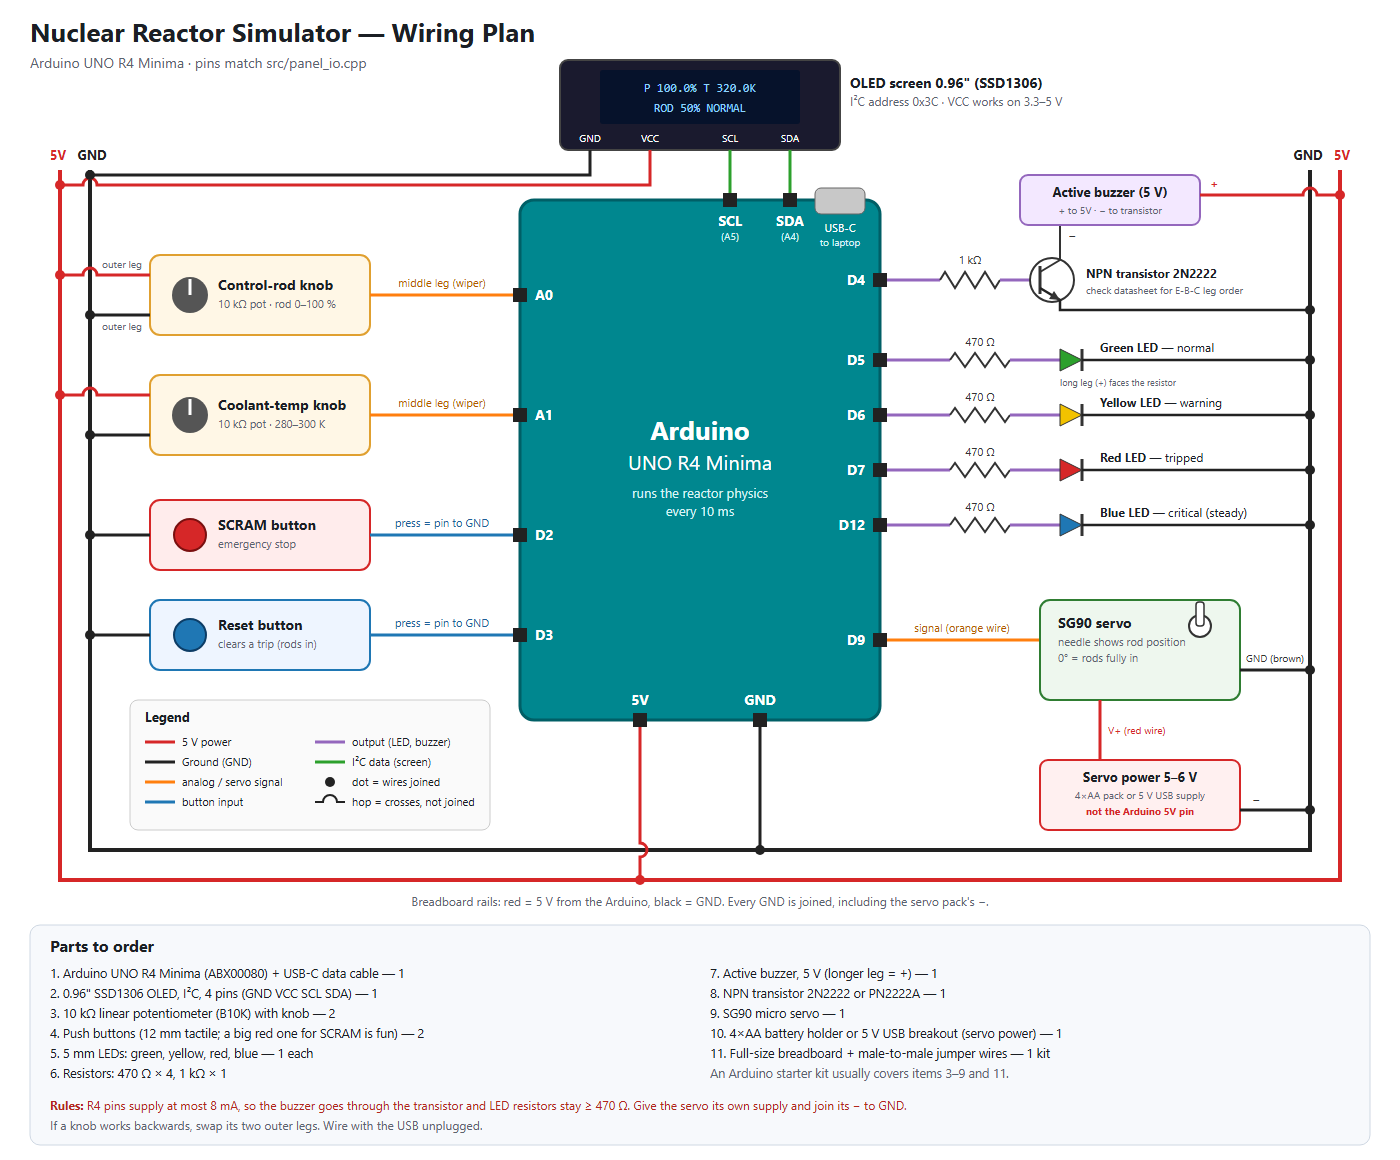
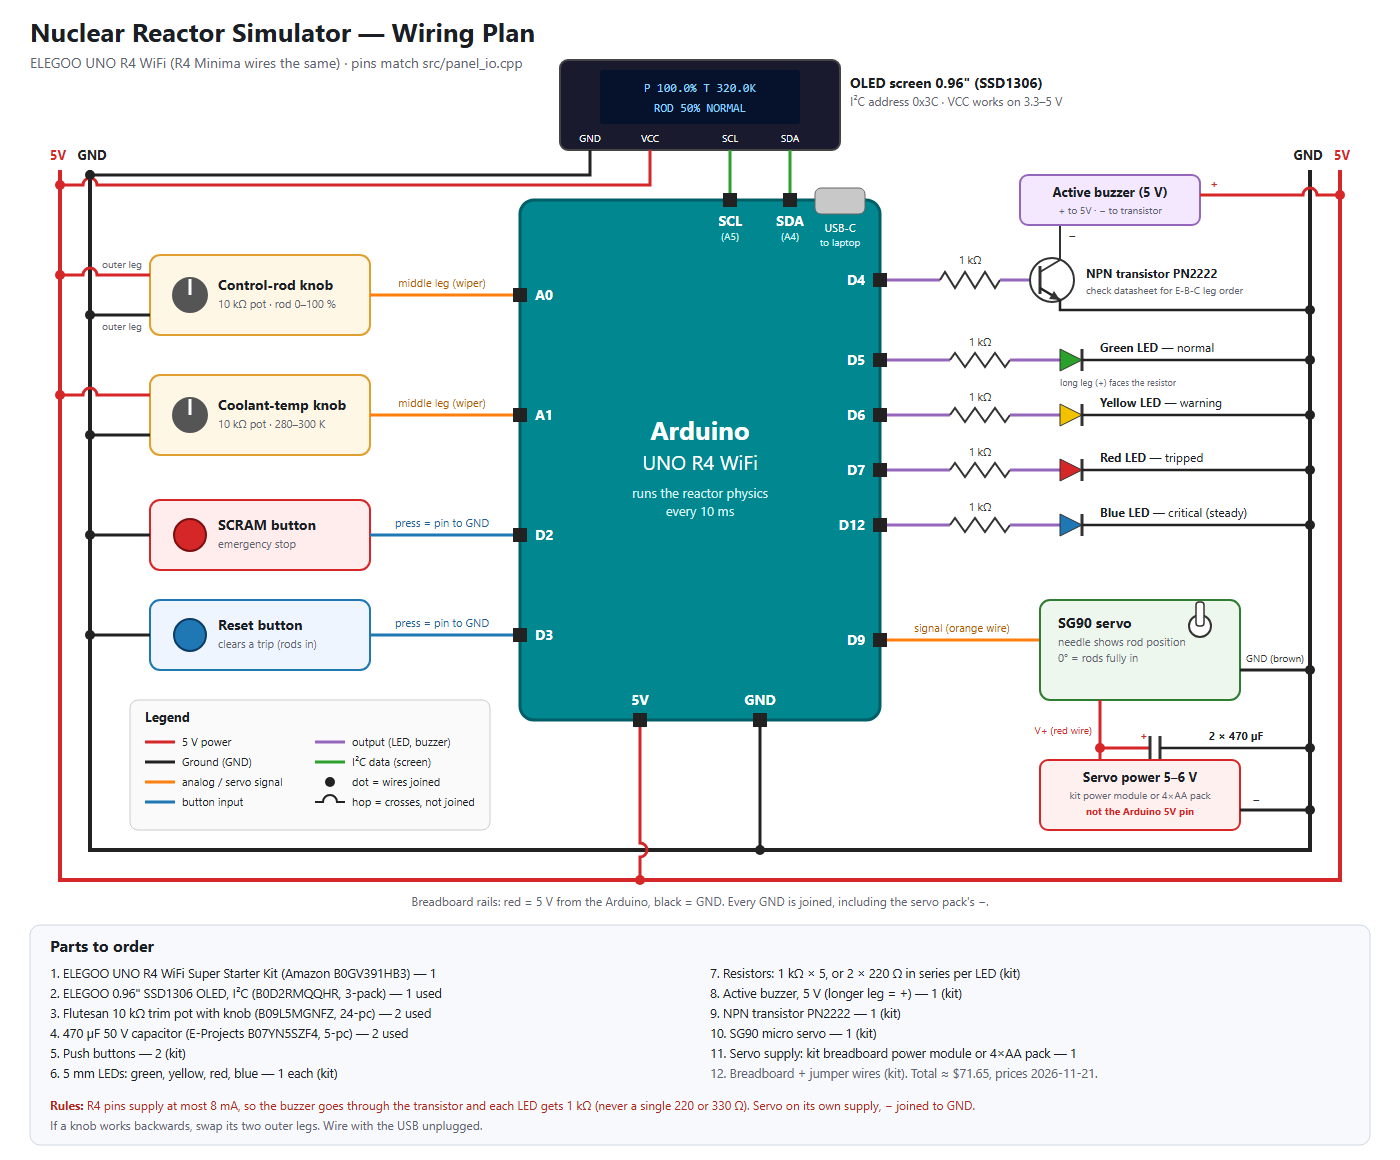
docs: build on ELEGOO UNO R4 WiFi kit, finalize Amazon BOM
Add uno_r4_wifi PlatformIO env (same RA4M1, firmware unchanged). BOM: kit, Flutesan 10k trim pots, 470uF caps, SSD1306 OLED (.65). Wiring: 1k LED resistors, 2x470uF across servo supply.

diff --git a/docs/PLAN.html b/docs/PLAN.html
@@ -398,21 +398,16 @@ void pkeStep(float rho, float h, float S) {
 <section id="hardware">
 <h2>8. Hardware</h2>
 <h3>8.1 Bill of materials</h3>
+<p>Ordered from Amazon; prices checked 2026-11-21 (Black Friday). Built on the <strong>ELEGOO UNO R4 WiFi</strong>: same RA4M1 chip as the Minima, so the firmware is unchanged (PlatformIO env <code>uno_r4_wifi</code>).</p>
 <table>
-<tr><th>Item</th><th>Qty</th><th>Purpose</th><th>Approx. cost</th></tr>
-<tr><td>Arduino Uno R4 Minima (or R3)</td><td>1</td><td>Solver + I/O</td><td>~$20–27 <span class="tag u">U</span></td></tr>
-<tr><td>Breadboard + jumper wires</td><td>1 + ~40</td><td>Prototyping</td><td>~$8</td></tr>
-<tr><td>10 kΩ linear potentiometer</td><td>2</td><td>Rod position; coolant flow (optional)</td><td>~$2</td></tr>
-<tr><td>5 mm LEDs (green, yellow, red, blue)</td><td>4+</td><td>Status</td><td>~$1</td></tr>
-<tr><td>Resistors: 220/330 Ω (R3) or 1 kΩ (R4)</td><td>assorted</td><td>LED current limiting</td><td>~$1</td></tr>
-<tr><td>Tactile pushbutton</td><td>2</td><td>SCRAM, reset/acknowledge</td><td>~$1</td></tr>
-<tr><td>Piezo buzzer (active = simplest)</td><td>1</td><td>Alarm</td><td>~$2</td></tr>
-<tr><td>SG90/SG92R micro servo</td><td>1</td><td>Rod position indicator</td><td>~$6 <span class="tag v">V</span></td></tr>
-<tr><td>5 V ≥1 A supply + 470–1000 µF capacitor</td><td>1</td><td>Separate servo power</td><td>~$6</td></tr>
-<tr><td><em>Optional:</em> SSD1306 OLED or 16×2 I2C LCD</td><td>1</td><td>Readouts</td><td>~$6–10</td></tr>
-<tr><td><em>Optional:</em> 10-segment LED bar graph</td><td>1</td><td>Log-power display</td><td>~$3</td></tr>
+<tr><th>Item</th><th>Qty used</th><th>Purpose</th><th>Price</th></tr>
+<tr><td><a href="https://www.amazon.com/dp/B0GV391HB3">ELEGOO UNO R4 WiFi Super Starter Kit</a></td><td>1</td><td>Board, breadboard, jumpers, LEDs, resistors, buttons, active buzzer, PN2222, SG90 servo, breadboard power module</td><td>$45.99 (list $59.99)</td></tr>
+<tr><td><a href="https://www.amazon.com/dp/B09L5MGNFZ">Flutesan 10 kΩ trim pots with knobs, 24-pc</a></td><td>2</td><td>Rod and coolant knobs (kit has one pot)</td><td>$9.99 ($9.49 Prime)</td></tr>
+<tr><td><a href="https://www.amazon.com/dp/B07YN5SZF4">E-Projects 470 µF 50 V electrolytic, 5-pc</a></td><td>2</td><td>Across the servo supply (≈ 940 µF in parallel)</td><td>$7.18</td></tr>
+<tr><td><a href="https://www.amazon.com/dp/B0D2RMQQHR">ELEGOO 0.96" SSD1306 OLED, I²C, 3-pc</a></td><td>1</td><td>Readouts (0x3C, 3.3–5 V)</td><td>$8.49</td></tr>
+<tr><td><em>Optional, not ordered:</em> 10-segment LED bar graph</td><td>1</td><td>Log-power display</td><td>~$3</td></tr>
 </table>
-<p><strong>Estimated total:</strong> about $45–70.</p>
+<p><strong>Total:</strong> $71.65 before tax. The kit has no 470 Ω resistor: use 1 kΩ (or two 220 Ω in series) per LED. Servo power comes from the kit's breadboard power module or a 4×AA pack, never the Arduino 5 V pin.</p>
 
 <h3>8.2 Pin map (same on R3 and R4)</h3>
 <table>

diff --git a/docs/CODE-GUIDE.html b/docs/CODE-GUIDE.html
@@ -144,7 +144,7 @@ git config user.email "36139453+lanlanf@users.noreply.github.com"</code></pre></
 <tr><td>6</td><td><strong>Python 3</strong></td><td><a href="https://www.python.org/downloads/windows/">python.org</a>. Pick a version SciPy has Windows wheels for; if <code>pip</code> tries to <em>compile</em> SciPy, use the previous Python release.</td><td><code>py --version</code></td><td><span class="tag v">VERIFIED</span> [I5]</td></tr>
 <tr><td>7</td><td><strong>Virtual env + packages</strong></td><td><code>py -m venv .venv</code> → <code>.venv\Scripts\Activate.ps1</code> → <code>pip install numpy scipy matplotlib pyserial</code><br>If PowerShell blocks activation: <code>Set-ExecutionPolicy -Scope CurrentUser RemoteSigned</code></td><td><code>python -c "import numpy, scipy, matplotlib, serial"</code></td><td>venv <span class="tag v">VERIFIED</span> [I6]</td></tr>
 <tr><td>8</td><td><strong>PlatformIO IDE</strong> (VS Code extension)</td><td>Extensions view → “PlatformIO IDE”. Needs <code>git</code> on PATH.</td><td>The PIO toolbar appears; build a Blink project</td><td><span class="tag v">VERIFIED</span> [I7]</td></tr>
-<tr><td>9</td><td><strong>Uno R4 Minima support</strong></td><td>Automatic: <code>platform = renesas-ra</code>, <code>board = uno_r4_minima</code> in <code>platformio.ini</code>. Default upload is DFU over USB-C.</td><td><code>pio run -e uno_r4_minima</code></td><td><span class="tag v">VERIFIED</span> [I8]</td></tr>
+<tr><td>9</td><td><strong>Uno R4 Minima support</strong></td><td>Automatic: <code>platform = renesas-ra</code>, <code>board = uno_r4_minima</code> in <code>platformio.ini</code>. Default upload is DFU over USB-C. The ELEGOO UNO R4 WiFi build board uses env <code>uno_r4_wifi</code> (same chip).</td><td><code>pio run -e uno_r4_wifi</code></td><td><span class="tag v">VERIFIED</span> [I8]</td></tr>
 <tr><td>10</td><td><strong>doctest</strong></td><td>Download the single header <a href="https://raw.githubusercontent.com/doctest/doctest/master/doctest/doctest.h">doctest.h</a> into <code>third_party/</code>. Works with C++11.</td><td>The test program runs</td><td><span class="tag v">VERIFIED</span> [I9]</td></tr>
 <tr><td>11</td><td><em>Optional:</em> Arduino IDE 2</td><td><a href="https://www.arduino.cc/en/software">arduino.cc/en/software</a>. A fallback uploader, and it has the Serial Plotter.</td><td>Board shows in the selector</td><td><span class="tag v">VERIFIED</span> [I10]</td></tr>
 </table>

diff --git a/docs/PLAN.md b/docs/PLAN.md
@@ -171,23 +171,25 @@ void pkeStep(float rho, float h, float S) {
 
 **Recommendation:** prototype in **Wokwi on R3**, then build on **R4 Minima**. The implicit solver fits on the R3, but the R4 has much more headroom for 6 groups, feedback and display. Measure `micros()` per step on both and report it.
 
+**As built:** the **ELEGOO UNO R4 WiFi** from a starter kit. It has the same RA4M1 chip, 32 kB RAM and 8 mA pin limit as the Minima, so the firmware is unchanged. PlatformIO environment: `uno_r4_wifi` (19 % RAM, 31 % flash).
+
 ### 4.2 Bill of materials
 
-| Item | Qty | Purpose | Approx. cost |
-|---|---|---|---|
-| Arduino Uno R4 Minima (or R3) | 1 | Solver + I/O | ~$20–27 [H3] (US price not verified) |
-| Breadboard + jumper wires | 1 + ~40 | Prototyping | ~$8 |
-| 10 kΩ linear potentiometer | 2 | Rod position; optional coolant flow | ~$2 |
-| 5 mm LEDs (green, yellow, red, blue) | 4+ | Status lights | ~$1 |
-| Resistors: 220 Ω / 330 Ω (R3) or 1 kΩ (R4) | assorted | LED current limiting | ~$1 |
-| Tactile pushbutton | 2 | SCRAM and reset/acknowledge | ~$1 |
-| Piezo buzzer (active = simplest; passive = choose your own pitch) | 1 | Alarm | ~$2 |
-| SG90 / SG92R micro servo | 1 | Rod position indicator | ~$6 [H6] |
-| 5 V ≥1 A supply + 470–1000 µF capacitor | 1 | Separate servo power | ~$6 |
-| *Optional:* SSD1306 OLED or 16×2 I2C LCD | 1 | Readouts for power, period and temperature | ~$6–10 |
-| *Optional:* 10-segment LED bar graph | 1 | **Log-power** display (one segment per decade) | ~$3 |
+Ordered from Amazon. Prices checked 2026-11-21 (Black Friday).
 
-**Estimated total:** about $45–70. Prices other than the Arduino store [H3] and Adafruit [H6] are rough and not verified.
+| Item | Qty used | Purpose | Price |
+|---|---|---|---|
+| [ELEGOO UNO R4 WiFi Super Starter Kit](https://www.amazon.com/dp/B0GV391HB3) | 1 | Board, breadboard, jumpers, LEDs, resistors, buttons, active buzzer, PN2222 transistor, SG90 servo, breadboard power module | $45.99 (list $59.99) |
+| [Flutesan 10 kΩ trim pots with knobs, 24-pc](https://www.amazon.com/dp/B09L5MGNFZ) | 2 | Rod and coolant knobs (the kit has only one pot). Linear, 270°, round breadboard pins | $9.99 ($9.49 Prime) |
+| [E-Projects 470 µF 50 V electrolytic, 5-pc](https://www.amazon.com/dp/B07YN5SZF4) | 2 | Across the servo supply; two in parallel ≈ 940 µF | $7.18 |
+| [ELEGOO 0.96" SSD1306 OLED, I²C, 3-pc](https://www.amazon.com/dp/B0D2RMQQHR) | 1 | Readouts for power, period and temperature (0x3C, 3.3–5 V) | $8.49 |
+| *Optional, not ordered:* 10-segment LED bar graph | 1 | **Log-power** display (one segment per decade) | ~$3 |
+
+**Total:** $71.65 before tax ($71.15 with the Prime pot price). Over $35, so shipping is free.
+
+- **LED resistors:** the kit has no 470 Ω. Use 1 kΩ (≈3 mA) or two 220 Ω in series (≈7 mA). Never a single 220 Ω or 330 Ω on an R4 pin.
+- **Capacitors:** put them right at the servo supply, long leg (+) to servo 5 V and striped leg (−) to GND. The 50 V rating is fine at 5 V.
+- **Servo power:** the kit's breadboard power module or a 4×AA pack, never the Arduino 5 V pin.
 
 ### 4.3 Pin map (same on R3 and R4)
 
@@ -250,7 +252,7 @@ loop():
 1. **Desk physics:** write a Python reference solver (SciPy) and the one-group model, and reproduce the §2.5 table.
 2. **Wokwi prototype:** wire the potentiometer, LEDs, buzzer, servo and button on a virtual Uno R3, then port the solver [H11][H12].
 3. **Six groups + implicit Euler:** run V1–V4 and V6–V7 on the simulated board.
-4. **Buy parts and build** on the R4 Minima. Measure µs per step.
+4. **Buy parts and build** on the R4 (ELEGOO UNO R4 WiFi, see §4.2). Measure µs per step.
 5. **Feedback + trips + log-power/SUR display:** run V8.
 6. **Validation write-up:** V5 plots, error analysis and a demo video.
 

diff --git a/README.md b/README.md
@@ -1,8 +1,8 @@
 # Nuclear Reactor Simulator (Personal Project)
 
-A point-kinetics reactor simulator running in real time on an
-Arduino UNO R4 Minima. It has a hardware control panel (control-rod pot,
-coolant pot, SCRAM and reset buttons, status LEDs, buzzer, rod-position servo
+A point-kinetics reactor simulator running in real time on an Arduino UNO R4
+(built on the ELEGOO UNO R4 WiFi; the R4 Minima also works). It has a hardware
+control panel (control-rod pot, coolant pot, SCRAM and reset buttons, status LEDs, buzzer, rod-position servo
 and an SSD1306 OLED). The same physics library builds on the desktop for unit
 tests and for validation against a SciPy reference.
 
@@ -70,10 +70,13 @@ python -m venv .venv
 Build and upload with PlatformIO (VS Code extension or CLI):
 
 ```powershell
-pio run                 # compile
-pio run -t upload       # flash the UNO R4 Minima
-pio device monitor      # 115200 baud
+pio run -e uno_r4_wifi              # compile for the ELEGOO UNO R4 WiFi
+pio run -e uno_r4_wifi -t upload    # flash it (use -e uno_r4_minima for a Minima)
+pio device monitor                  # 115200 baud
 ```
+
+Both boards use the same RA4M1 chip, so the firmware is identical. Parts list
+with Amazon links: [docs/PLAN.md §4.2](docs/PLAN.md#42-bill-of-materials).
 
 On a network that intercepts TLS, install `pip-system-certs` into the same
 Python as PlatformIO so it trusts the Windows certificate store.
@@ -98,9 +101,10 @@ Full diagram with parts list: [docs/wiring.svg](docs/wiring.svg).
 | D9 | Servo | Rod position |
 | SDA/SCL | SSD1306 OLED | I²C address 0x3C |
 
-R4 pins supply at most 8 mA: use 470 Ω on each LED and drive the buzzer
-through an NPN transistor (1 kΩ base resistor). Power the servo from its own
-5 V supply and connect that supply's ground to the Arduino's.
+R4 pins supply at most 8 mA: use 1 kΩ (or two 220 Ω in series) on each LED and
+drive the buzzer through an NPN transistor (1 kΩ base resistor). Power the
+servo from its own 5 V supply with two 470 µF capacitors across it, and connect
+that supply's ground to the Arduino's.
 
 ### Serial commands
 

diff --git a/docs/LOG.md b/docs/LOG.md
@@ -1,5 +1,17 @@
 # Project log
 
+## 2026-11-21: parts list finalized
+
+**Board:** ELEGOO UNO R4 WiFi (starter kit). It has the same RA4M1 chip as the
+Minima, so the firmware is unchanged; added the PlatformIO env `uno_r4_wifi`.
+It compiles at 19 % RAM (6.3 kB) and 31 % flash (81 kB).
+
+**Amazon order ($71.65):** the ELEGOO kit, Flutesan 10 kΩ trim pots (24-pc),
+E-Projects 470 µF 50 V caps (5-pc) and an ELEGOO SSD1306 OLED (3-pc). Links
+are in [PLAN.md §4.2](PLAN.md#42-bill-of-materials). The kit has no 470 Ω
+resistor, so the LEDs use 1 kΩ; the wiring diagram now shows 2 × 470 µF across
+the servo supply.
+
 ## 2026-11-20: first full code drop
 
 **Built:** physics library, 23 unit tests, `sim_cli`, SciPy reference and

diff --git a/docs/BRINGUP.md b/docs/BRINGUP.md
@@ -2,8 +2,8 @@
 
 ## 1. Before power
 
-- [ ] Parts on the bench match docs/wiring.svg (UNO R4, 2 pots, 2 buttons, active buzzer + NPN, 4 LEDs, servo, SSD1306 OLED).
-- [ ] Upload: `.\.venv\Scripts\pio.exe run -t upload`
+- [ ] Parts on the bench match docs/wiring.svg (ELEGOO UNO R4 WiFi, 2 pots, 2 buttons, active buzzer + NPN, 4 LEDs with 1 kΩ, servo + 2 × 470 µF, SSD1306 OLED).
+- [ ] Upload: `.\.venv\Scripts\pio.exe run -e uno_r4_wifi -t upload`
 - [ ] Monitor: `.\.venv\Scripts\pio.exe device monitor` (115200 baud)
 - [ ] Banner `# reactor simulator ready ...` appears (or `# no OLED found, continuing without it` if the OLED is not wired).
 
